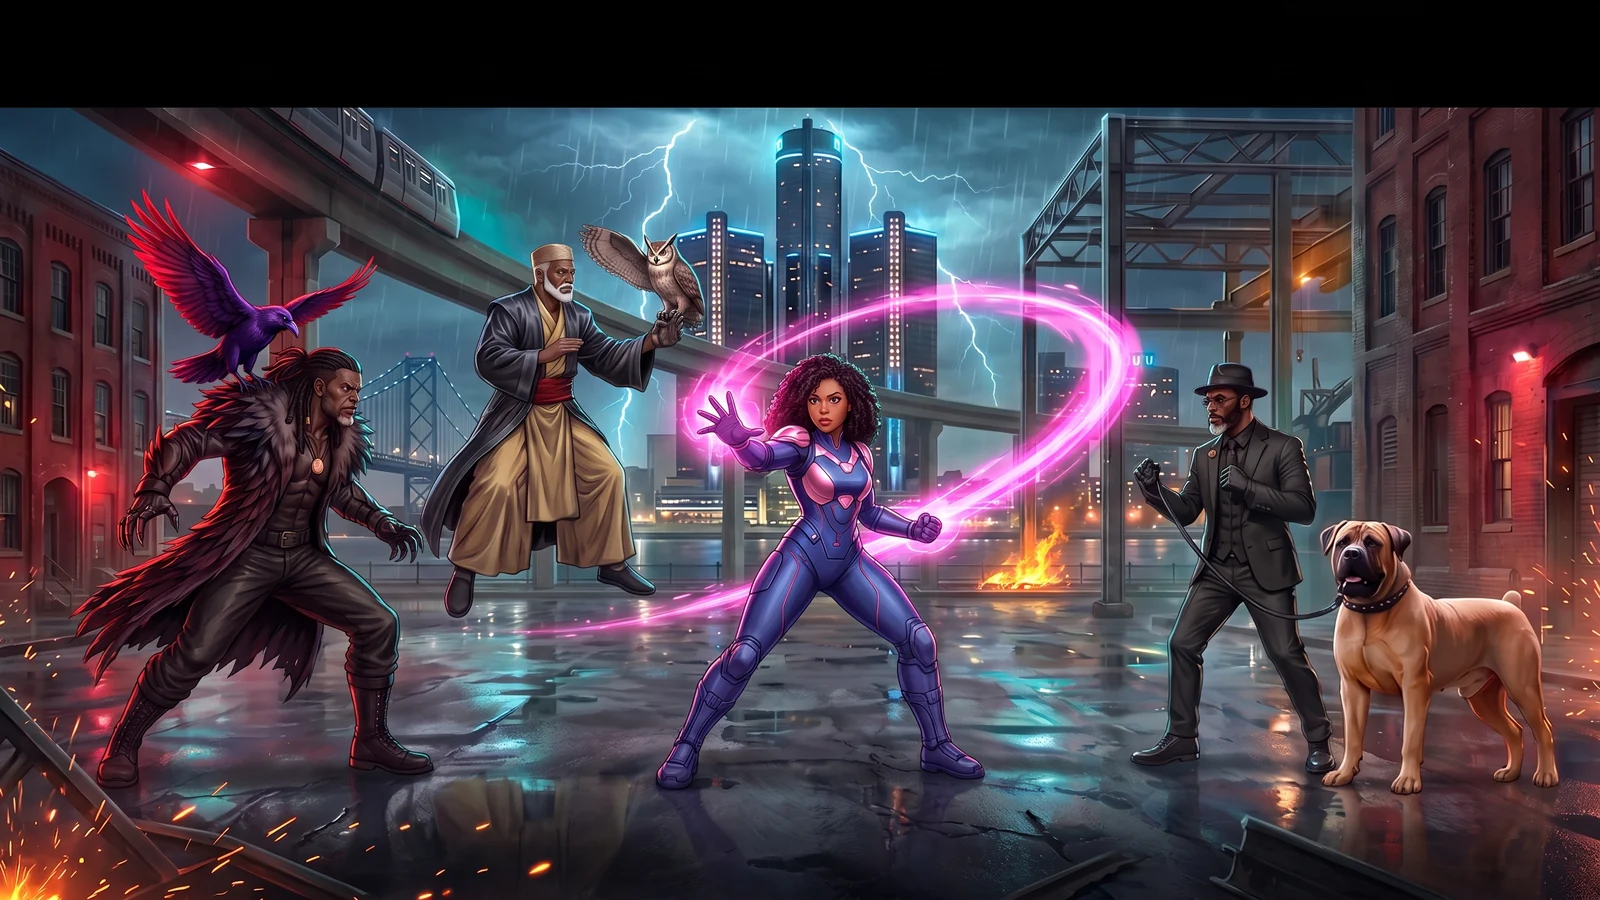
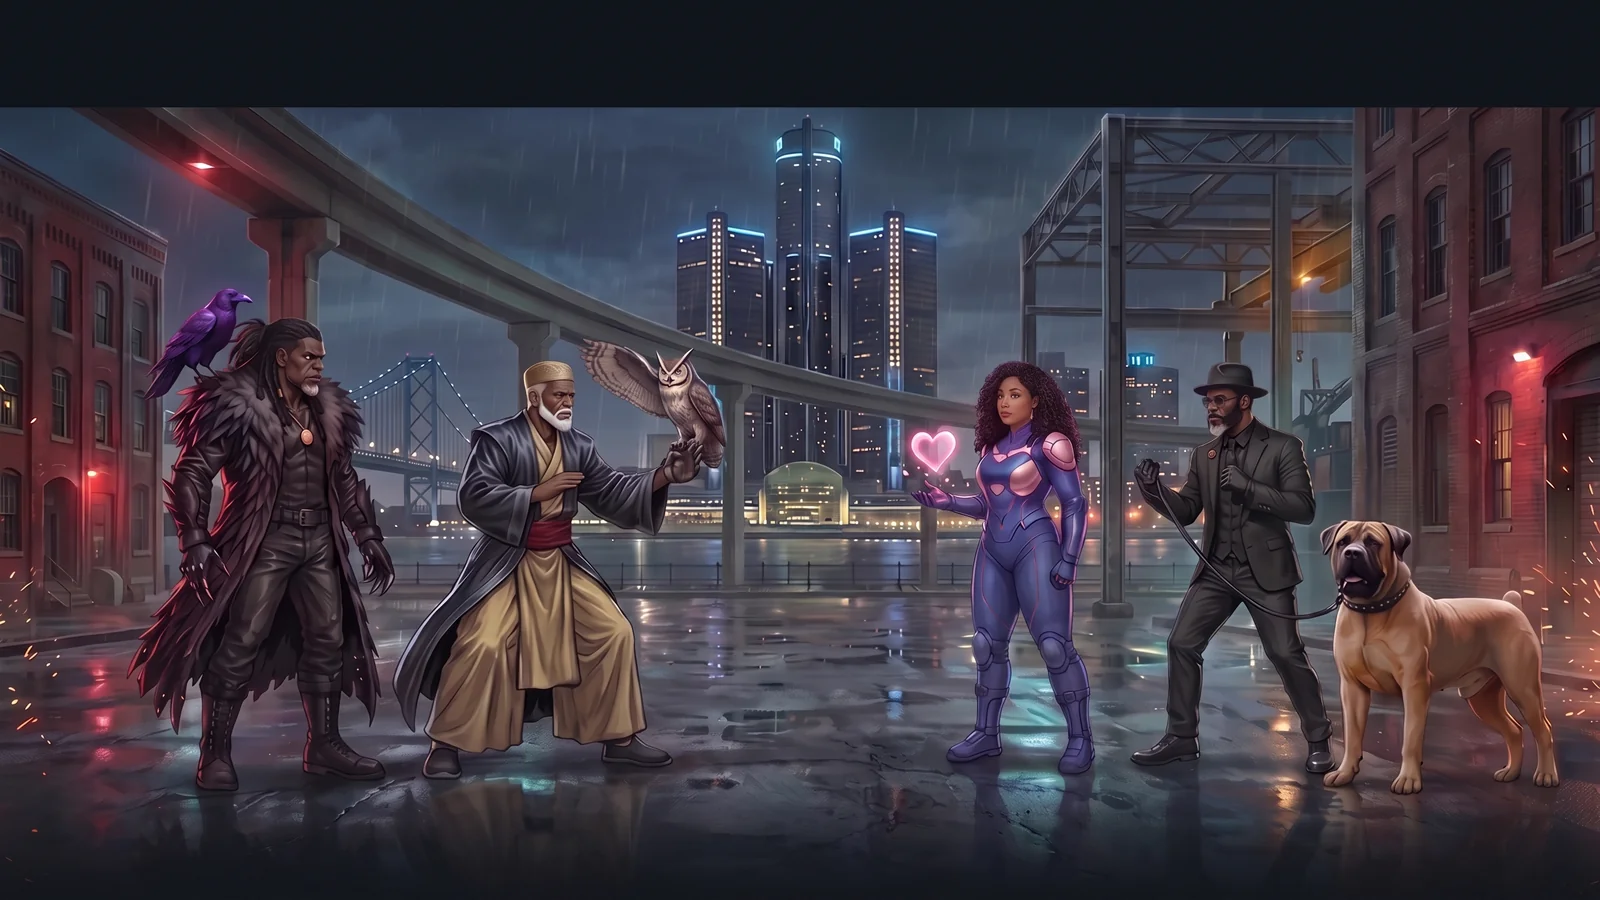
Balance Detroit title composition

diff --git a/lottominded-ultra.io/games/gothtechnology2/src/scenes/game.js b/lottominded-ultra.io/games/gothtechnology2/src/scenes/game.js
@@ -1,17 +1,17 @@
-import { ASSET_URLS, COMMERCIAL_URLS, FIGHTERS } from "../config/assets.js?v=heartline37-epic-detroit";
-import { arcadeRouteFor, GAME_MODES, ROSTER_CARD_LAYOUT, ROSTER_IDS, STAGES, opponentFor } from "../config/content.js?v=heartline37-epic-detroit";
-import { ASSISTS, ATTACKS } from "../config/moves.js?v=heartline37-epic-detroit";
-import { CANVAS_HEIGHT, CANVAS_WIDTH, COLORS, GROUND_Y, PHASE, ROUND_SECONDS, WORLD } from "../config/constants.js?v=heartline37-epic-detroit";
-import { AssetLoader } from "../engine/assets.js?v=heartline37-epic-detroit";
-import { WebAudioBus } from "../engine/audio.js?v=heartline37-epic-detroit";
-import { InputManager } from "../engine/input.js?v=heartline37-epic-detroit";
-import { clamp, rectsOverlap } from "../engine/math.js?v=heartline37-epic-detroit";
-import { applyHit, resolveMelee } from "../gameplay/combat.js?v=heartline37-epic-detroit";
-import { CpuController } from "../gameplay/cpu.js?v=heartline37-epic-detroit";
-import { AttachedSpriteEffect, LovePulseEffect, SpriteEffect } from "../gameplay/effects.js?v=heartline37-epic-detroit";
-import { Fighter } from "../gameplay/fighter.js?v=heartline37-epic-detroit";
-import { AssistStrike, BoerboelStrike, Projectile } from "../gameplay/projectiles.js?v=heartline37-epic-detroit";
-import { applyRoundOutcomeMotions, resolveRoundOutcome } from "../gameplay/rounds.js?v=heartline37-epic-detroit";
+import { ASSET_URLS, COMMERCIAL_URLS, FIGHTERS } from "../config/assets.js?v=heartline38-balanced-detroit";
+import { arcadeRouteFor, GAME_MODES, ROSTER_CARD_LAYOUT, ROSTER_IDS, STAGES, opponentFor } from "../config/content.js?v=heartline38-balanced-detroit";
+import { ASSISTS, ATTACKS } from "../config/moves.js?v=heartline38-balanced-detroit";
+import { CANVAS_HEIGHT, CANVAS_WIDTH, COLORS, GROUND_Y, PHASE, ROUND_SECONDS, WORLD } from "../config/constants.js?v=heartline38-balanced-detroit";
+import { AssetLoader } from "../engine/assets.js?v=heartline38-balanced-detroit";
+import { WebAudioBus } from "../engine/audio.js?v=heartline38-balanced-detroit";
+import { InputManager } from "../engine/input.js?v=heartline38-balanced-detroit";
+import { clamp, rectsOverlap } from "../engine/math.js?v=heartline38-balanced-detroit";
+import { applyHit, resolveMelee } from "../gameplay/combat.js?v=heartline38-balanced-detroit";
+import { CpuController } from "../gameplay/cpu.js?v=heartline38-balanced-detroit";
+import { AttachedSpriteEffect, LovePulseEffect, SpriteEffect } from "../gameplay/effects.js?v=heartline38-balanced-detroit";
+import { Fighter } from "../gameplay/fighter.js?v=heartline38-balanced-detroit";
+import { AssistStrike, BoerboelStrike, Projectile } from "../gameplay/projectiles.js?v=heartline38-balanced-detroit";
+import { applyRoundOutcomeMotions, resolveRoundOutcome } from "../gameplay/rounds.js?v=heartline38-balanced-detroit";
 import {
   drawCharacterSelect,
   drawArcadeEnding,
@@ -24,7 +24,7 @@ import {
   drawRoundMessage,
   drawTitle,
   drawVersus
-} from "../ui/hud.js?v=heartline37-epic-detroit";
+} from "../ui/hud.js?v=heartline38-balanced-detroit";
 
 const GAME_SELECT_ITEMS = [
   {

diff --git a/lottominded-ultra.io/games/gothtechnology2/src/gameplay/fighter.js b/lottominded-ultra.io/games/gothtechnology2/src/gameplay/fighter.js
@@ -1,9 +1,9 @@
-import { GRAVITY, GROUND_Y, WORLD } from "../config/constants.js?v=heartline37-epic-detroit";
-import { ATTACKS } from "../config/moves.js?v=heartline37-epic-detroit";
-import { drawSpriteFrame } from "../engine/assets.js?v=heartline37-epic-detroit";
-import { approach, clamp, makeRect } from "../engine/math.js?v=heartline37-epic-detroit";
-import { attackIntentFromActions, resolveCancelAttack } from "./commands.js?v=heartline37-epic-detroit";
-import { SpriteEffect } from "./effects.js?v=heartline37-epic-detroit";
+import { GRAVITY, GROUND_Y, WORLD } from "../config/constants.js?v=heartline38-balanced-detroit";
+import { ATTACKS } from "../config/moves.js?v=heartline38-balanced-detroit";
+import { drawSpriteFrame } from "../engine/assets.js?v=heartline38-balanced-detroit";
+import { approach, clamp, makeRect } from "../engine/math.js?v=heartline38-balanced-detroit";
+import { attackIntentFromActions, resolveCancelAttack } from "./commands.js?v=heartline38-balanced-detroit";
+import { SpriteEffect } from "./effects.js?v=heartline38-balanced-detroit";
 
 const MOTION_LOCKS = new Set([
   "LIGHT_PUNCH",

diff --git a/lottominded-ultra.io/games/gothtechnology2/src/ui/hud.js b/lottominded-ultra.io/games/gothtechnology2/src/ui/hud.js
@@ -1,7 +1,7 @@
-import { CANVAS_HEIGHT, CANVAS_WIDTH, COLORS, ROUND_SECONDS } from "../config/constants.js?v=heartline37-epic-detroit";
-import { FIGHTERS } from "../config/assets.js?v=heartline37-epic-detroit";
-import { GAME_MODES, ROSTER_CARD_LAYOUT, ROSTER_IDS, STAGES } from "../config/content.js?v=heartline37-epic-detroit";
-import { drawSpriteFrame } from "../engine/assets.js?v=heartline37-epic-detroit";
+import { CANVAS_HEIGHT, CANVAS_WIDTH, COLORS, ROUND_SECONDS } from "../config/constants.js?v=heartline38-balanced-detroit";
+import { FIGHTERS } from "../config/assets.js?v=heartline38-balanced-detroit";
+import { GAME_MODES, ROSTER_CARD_LAYOUT, ROSTER_IDS, STAGES } from "../config/content.js?v=heartline38-balanced-detroit";
+import { drawSpriteFrame } from "../engine/assets.js?v=heartline38-balanced-detroit";
 
 const FUTURE = {
   cyan: "#67e8ff",

diff --git a/lottominded-ultra.io/games/gothtechnology2/src/gameplay/combat.js b/lottominded-ultra.io/games/gothtechnology2/src/gameplay/combat.js
@@ -1,7 +1,7 @@
-import { rectsOverlap } from "../engine/math.js?v=heartline37-epic-detroit";
-import { ATTACKS } from "../config/moves.js?v=heartline37-epic-detroit";
-import { FloatingText, LovePulseEffect, SpriteEffect } from "./effects.js?v=heartline37-epic-detroit";
-import { registerAttackHit, sliceAttackForHit } from "./hits.js?v=heartline37-epic-detroit";
+import { rectsOverlap } from "../engine/math.js?v=heartline38-balanced-detroit";
+import { ATTACKS } from "../config/moves.js?v=heartline38-balanced-detroit";
+import { FloatingText, LovePulseEffect, SpriteEffect } from "./effects.js?v=heartline38-balanced-detroit";
+import { registerAttackHit, sliceAttackForHit } from "./hits.js?v=heartline38-balanced-detroit";
 
 export function resolveMelee(attacker, defender, game) {
   const attackState = attacker.currentAttack;

diff --git a/lottominded-ultra.io/games/gothtechnology2/src/main.js b/lottominded-ultra.io/games/gothtechnology2/src/main.js
@@ -1,7 +1,7 @@
-import { FIGHTERS } from "./config/assets.js?v=heartline37-epic-detroit";
-import { COMMAND_LISTS, GAME_MODES, ROSTER_IDS } from "./config/content.js?v=heartline37-epic-detroit";
-import { GothTechnologyGame } from "./scenes/game.js?v=heartline37-epic-detroit";
-import { PHASE } from "./config/constants.js?v=heartline37-epic-detroit";
+import { FIGHTERS } from "./config/assets.js?v=heartline38-balanced-detroit";
+import { COMMAND_LISTS, GAME_MODES, ROSTER_IDS } from "./config/content.js?v=heartline38-balanced-detroit";
+import { GothTechnologyGame } from "./scenes/game.js?v=heartline38-balanced-detroit";
+import { PHASE } from "./config/constants.js?v=heartline38-balanced-detroit";
 
 const syncViewportHeight = () => {
   document.documentElement.style.setProperty("--app-height", `${window.innerHeight}px`);

diff --git a/lottominded-ultra.io/games/gothtechnology2/src/gameplay/projectiles.js b/lottominded-ultra.io/games/gothtechnology2/src/gameplay/projectiles.js
@@ -1,7 +1,7 @@
-import { drawSheetFrame } from "../engine/assets.js?v=heartline37-epic-detroit";
-import { rectsOverlap } from "../engine/math.js?v=heartline37-epic-detroit";
-import { LovePulseEffect, SpriteEffect } from "./effects.js?v=heartline37-epic-detroit";
-import { sliceAttackForHit } from "./hits.js?v=heartline37-epic-detroit";
+import { drawSheetFrame } from "../engine/assets.js?v=heartline38-balanced-detroit";
+import { rectsOverlap } from "../engine/math.js?v=heartline38-balanced-detroit";
+import { LovePulseEffect, SpriteEffect } from "./effects.js?v=heartline38-balanced-detroit";
+import { sliceAttackForHit } from "./hits.js?v=heartline38-balanced-detroit";
 
 const hexAlpha = (color, alpha) => {
   if (!color?.startsWith("#") || color.length !== 7) return color;

diff --git a/lottominded-ultra.io/games/gothtechnology2/src/config/assets.js b/lottominded-ultra.io/games/gothtechnology2/src/config/assets.js
@@ -1,6 +1,6 @@
 export const PACK_ROOT = "assets/GOTHTECHNOLOGY_EXPANDED_SPRITE_PACK_V2";
 export const LOCAL_ROOT = "assets";
-export const MOTION_ASSET_VERSION = "heartline37-epic-detroit";
+export const MOTION_ASSET_VERSION = "heartline38-balanced-detroit";
 
 export const COMMERCIAL_URLS = [
   `${LOCAL_ROOT}/commercials/detroit-commercial-01.mp4`,

diff --git a/lottominded-ultra.io/games/gothtechnology2/src/gameplay/effects.js b/lottominded-ultra.io/games/gothtechnology2/src/gameplay/effects.js
@@ -1,4 +1,4 @@
-import { drawSheetFrame } from "../engine/assets.js?v=heartline37-epic-detroit";
+import { drawSheetFrame } from "../engine/assets.js?v=heartline38-balanced-detroit";
 
 export class SpriteEffect {
   constructor({ x, y, image, cellW = 256, cellH = 256, frames = 8, duration = 0.42, scale = 1, flip = false, alpha = 1 }) {

diff --git a/lottominded-ultra.io/games/gothtechnology2/index.html b/lottominded-ultra.io/games/gothtechnology2/index.html
@@ -826,6 +826,6 @@
       </section>
     </div>
     <script src="../../assets/js/lm-game-rewards-sdk.js?v=rewards-sdk-1"></script>
-    <script type="module" src="./src/main.js?v=heartline37-epic-detroit"></script>
+    <script type="module" src="./src/main.js?v=heartline38-balanced-detroit"></script>
   </body>
 </html>

diff --git a/lottominded-ultra.io/games/gothtechnology2/src/engine/assets.js b/lottominded-ultra.io/games/gothtechnology2/src/engine/assets.js
@@ -1,4 +1,4 @@
-import { ASSET_URLS, MOTION_ASSET_VERSION, MOTION_PLAYBACK } from "../config/assets.js?v=heartline37-epic-detroit";
+import { ASSET_URLS, MOTION_ASSET_VERSION, MOTION_PLAYBACK } from "../config/assets.js?v=heartline38-balanced-detroit";
 
 const imageCache = new Map();
 
